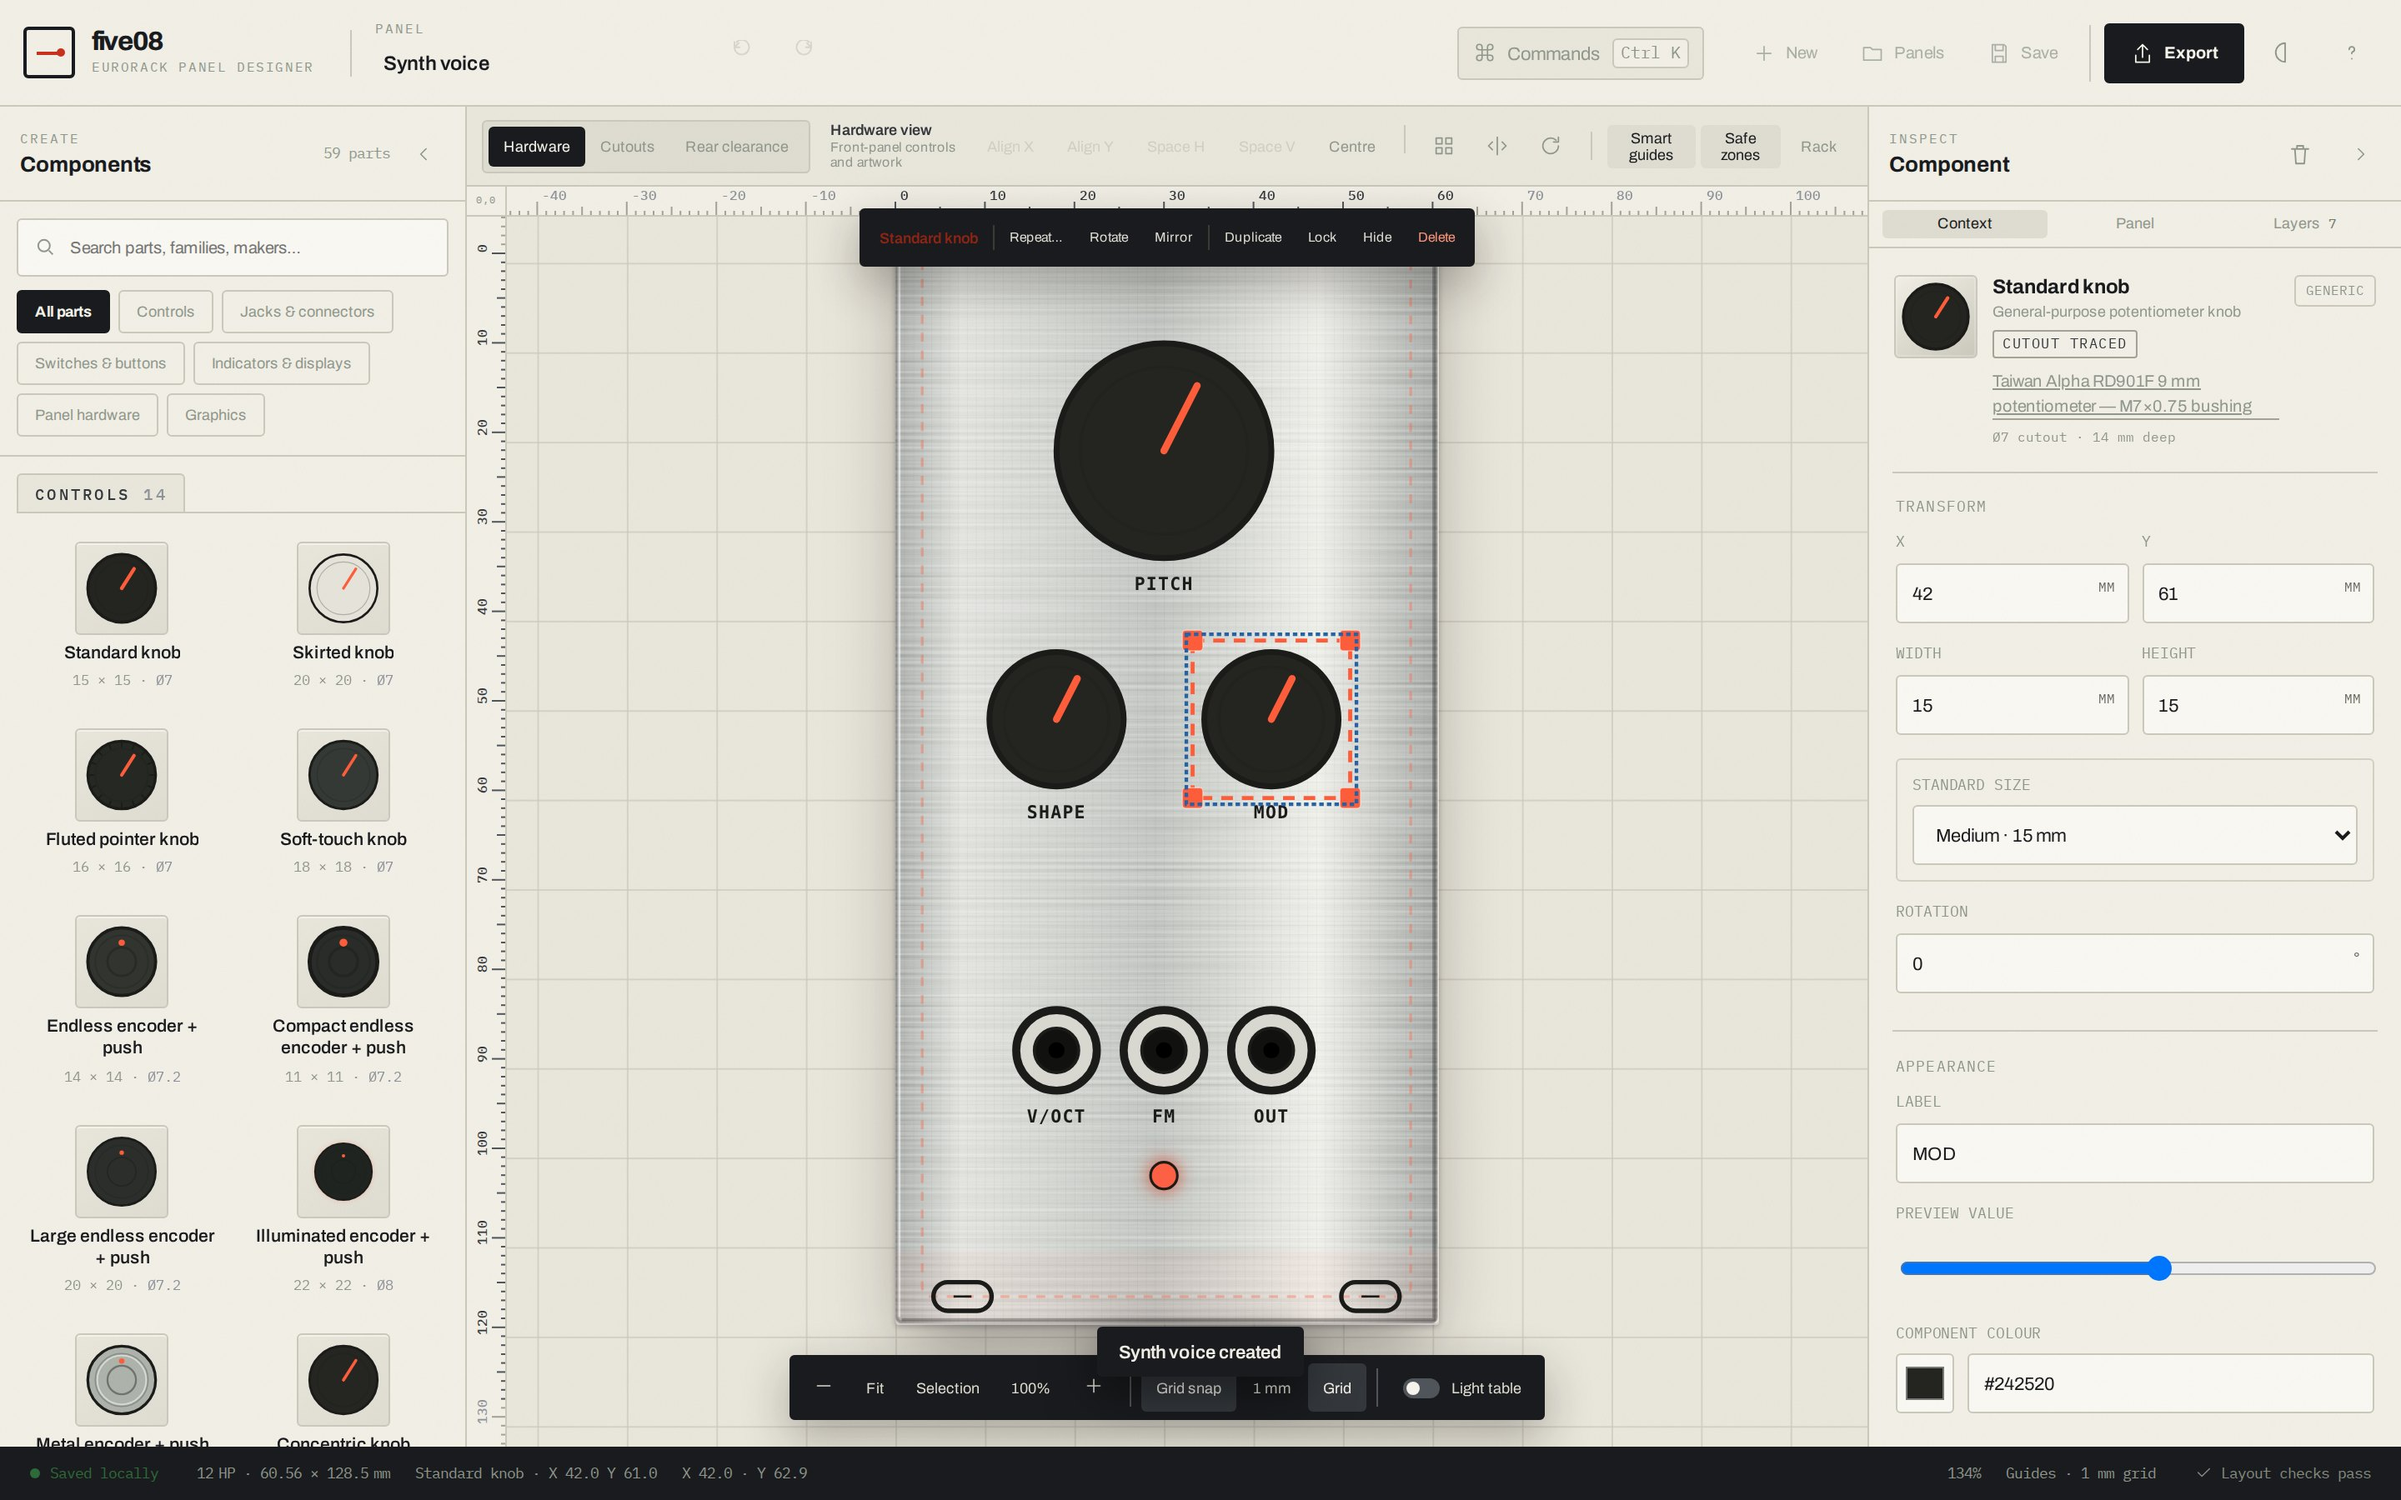
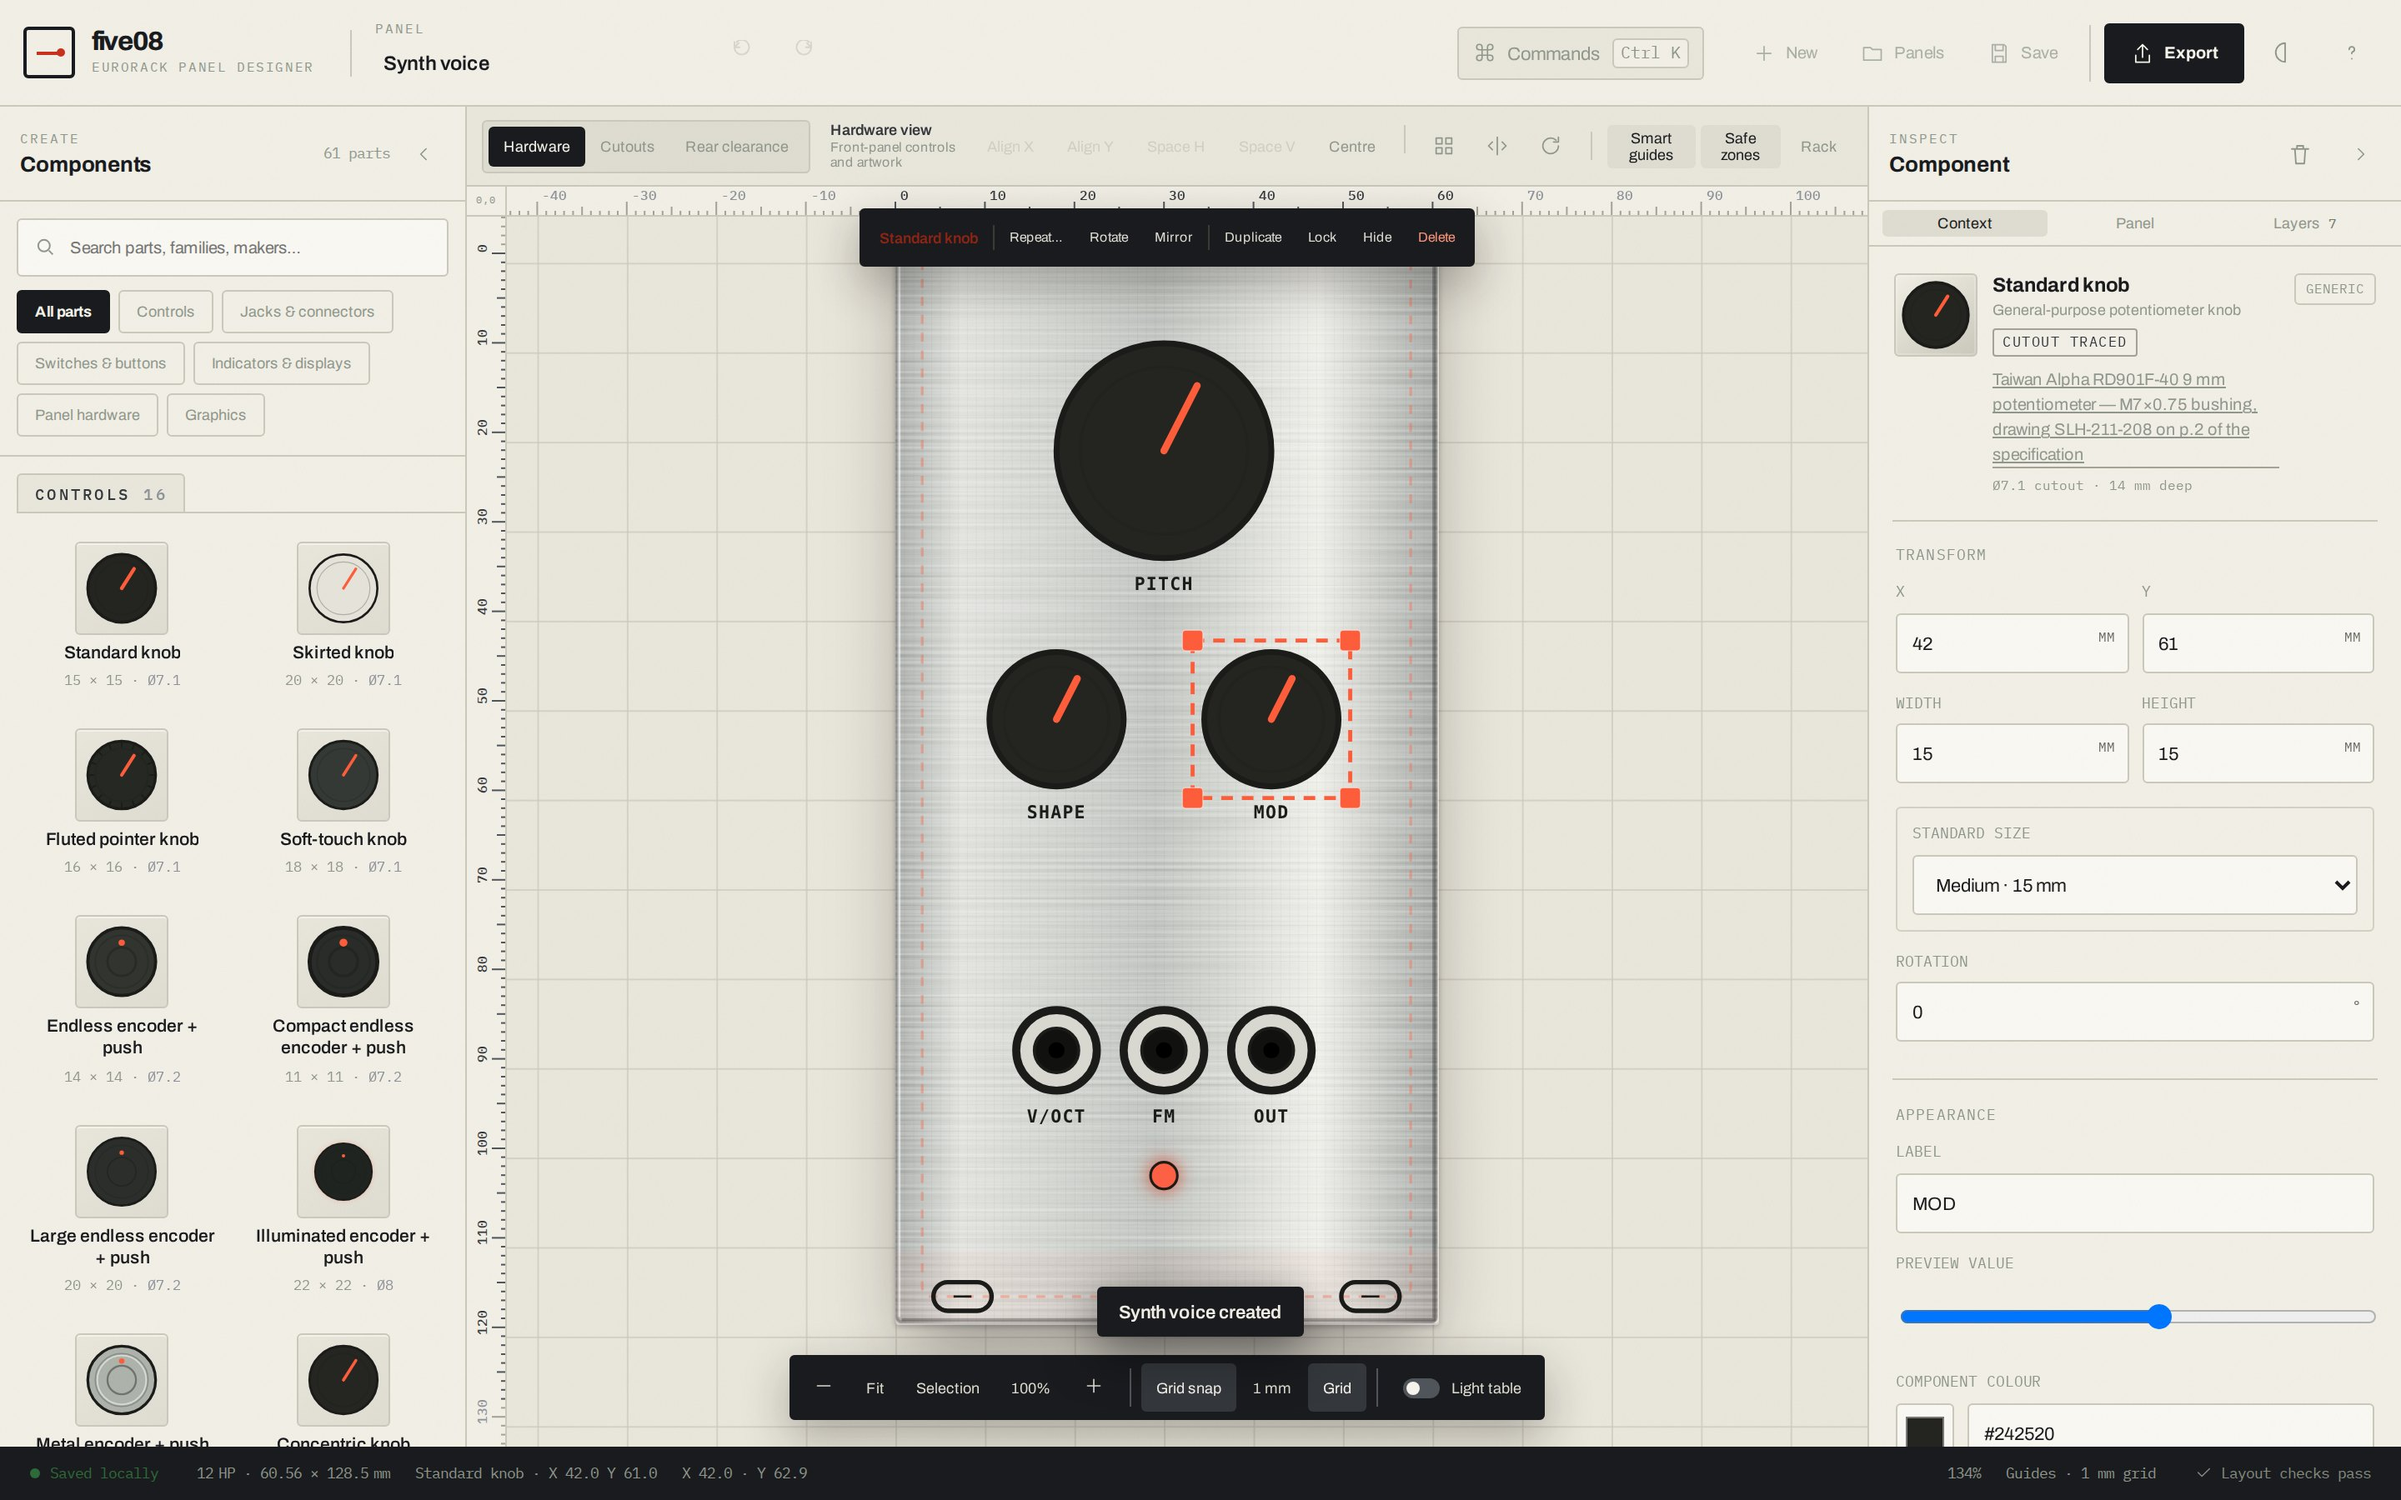
Keep the focus ring for the keyboard, and run the section rule unbroken
Clicking or dragging a part set focusedId, which is what Tab resumes from,
but it also drew the blue focus outline — and because the canvas rebuilds
on every edit, the ring was redrawn from that state even though nothing
was focused any more. So every move left an outline sitting on the panel.

The ring now follows :focus-visible rather than focus: it appears when the
keyboard put focus somewhere and disappears the moment a pointer takes
over. For anyone who wants it regardless, 'Focus ring' in the command
palette turns it on for good, remembered with the other preferences, and
the shortcuts dialog says so.

On the public page, the two column headings in section 1.0 each carried
their own underline, so the rule across the top of the section stopped
either side of the gutter and the spec table doubled the left half of it.
The left heading's rule now bridges the gutter and the table's own top
border is gone: one hairline, the width of the section.

Claude-Session: https://claude.ai/code/session_018GdknSXAat1Aoj3LkoWEQc

diff --git a/src/main.ts b/src/main.ts
@@ -25,6 +25,10 @@ let project=load(projectId), selection=new Set<string>();
 const history=new History(project);
 let gridIndex=grids.indexOf(prefs.grid)<0?1:grids.indexOf(prefs.grid);
 let snap=prefs.snap,smartGuides=prefs.smartGuides,showSafe=prefs.showSafe,showGrid=prefs.showGrid,theme:Theme=prefs.theme;
+/* The focus ring is a keyboard affordance. It follows :focus-visible rather
+   than focus — a part clicked or dragged with a pointer does not wear one —
+   unless someone turns it on for good. */
+let focusRing=prefs.focusRing,usingKeyboard=false;
 let showRack=false;
 let zoom=fitZoom(),view:'design'|'cutout'|'rear'='design',libraryQuery='',activeCategory='All',inspectorTab:'context'|'panel'|'layers'='context',leftOpen=true,rightOpen=true;
 let issues:Issue[]=[];
@@ -117,7 +121,7 @@ function setSaveStatus(state:'saving'|'saved'|'quota'|'unavailable'){
   // A green hairline that blinks once: the save landed, no toast required.
   if(state==='saved'&&wasSaving)pulse(el,'flash-ok');
 }
-function savePrefs(){writePrefs({theme,grid:grids[gridIndex],snap,smartGuides,showGrid,showSafe});}
+function savePrefs(){writePrefs({theme,grid:grids[gridIndex],snap,smartGuides,showGrid,showSafe,focusRing});}
 function saveRecovery(){pushRecovery(project);}
 function fitZoom(){
   const width=Math.max(320,window.innerWidth-(leftOpenAtBoot()?700:220));
@@ -428,11 +432,16 @@ function applyCanvasA11y(){
   drawFocusRing();
 }
 
-/** A focus ring distinct from the selection outline, so both can be seen at once. */
+/**
+ * A focus ring distinct from the selection outline, so both can be seen at
+ * once — but only for the people it is for. Clicking or dragging a part sets
+ * focusedId, which is what Tab resumes from; drawing a ring around it as well
+ * leaves a blue outline sitting on the panel after every move.
+ */
 function drawFocusRing(){
   const layer=document.querySelector('#focus-layer');
   if(!layer)return;
-  const item=project.items.find(i=>i.id===focusedId&&!i.hidden);
+  const item=focusRing||usingKeyboard?project.items.find(i=>i.id===focusedId&&!i.hidden):undefined;
   layer.innerHTML=item
     ?`<rect class="focus-ring ${item.id!==lastFocusId?'landing':''}" x="${item.x-item.width/2-2}" y="${item.y-item.height/2-2}" width="${item.width+4}" height="${item.height+4}"/>`
     :'';
@@ -938,6 +947,7 @@ function commands():Command[]{
     {id:'rack-toggle',group:'View',title:'Show the panel in a rack',keywords:'case neighbours rails context',run:()=>{showRack=!showRack;render();}},
     {id:'grid-size',group:'View',title:`Cycle the grid step (now ${grids[gridIndex]} mm)`,run:cycleGrid},
     {id:'theme',group:'View',title:`Theme: ${theme} — switch to ${nextTheme(theme)}`,keywords:'dark light appearance',run:()=>setTheme(nextTheme(theme))},
+    {id:'focus-ring',group:'View',title:`Focus ring: ${focusRing?'always shown':'only when tabbing'}`,detail:focusRing?'Outline every focused part, pointer or keyboard':'Outline a part only when the keyboard put focus on it',keywords:'outline blue accessibility a11y keyboard highlight',run:()=>{focusRing=!focusRing;savePrefs();notify(focusRing?'Focus ring always shown':'Focus ring only when tabbing');drawFocusRing();}},
 
     {id:'panel-tab',group:'Panel',title:'Panel settings',run:()=>{rightOpen=true;inspectorTab='panel';render();}},
     {id:'layers-tab',group:'Panel',title:'Object layers',run:()=>{rightOpen=true;inspectorTab='layers';render();}},
@@ -1075,6 +1085,7 @@ function helpDialog(){
     <div class="modal-head"><span class="eyebrow">Five08</span><h2 id="shortcuts-title">Shortcuts</h2><p>Drag a part onto the panel, or click a library row to drop it at the centre.</p></div>
     <div class="shortcut-grid">${SHORTCUTS.map(([title,rows])=>`<section><h3>${title}</h3>${rows.map(([label,keys])=>`<div><span>${label}</span><kbd>${keys}</kbd></div>`).join('')}</section>`).join('')}</div>
     <div class="guide-tip"><strong>Smart guides</strong><span>Blue lines align centres and edges while you drag. Red measurements show the gap to the nearest neighbour, and a matching “=” badge means two gaps are equal. Hold Alt to place a part anywhere, ignoring the grid.</span></div>
+    <div class="guide-tip"><strong>Focus ring</strong><span>Tab into the panel and the part you are on wears a blue outline. Clicking or dragging never draws one. To outline whatever is focused however you got there, search “focus ring” in the command palette.</span></div>
     <div class="guide-tip"><strong>Before you cut metal</strong><span>Preflight checks edge margins, cutout walls, mounting clashes, jack spacing and part depth. Generic component dimensions are starting points — check every one against the real datasheet.</span></div>
     <div class="modal-actions"><button class="tool-button primary" id="cancel-modal">Close</button></div>
   </div></div>`);
@@ -1259,6 +1270,10 @@ window.addEventListener('resize',()=>renderRuler(panelWidth(project.panel)));
 window.addEventListener('beforeunload',flush);
 
 const typing=(t:EventTarget|null)=>{const el=t as HTMLElement|null;return!!el&&(['INPUT','SELECT','TEXTAREA'].includes(el.tagName)||el.isContentEditable);};
+
+/* Which input put focus where, decided the way :focus-visible decides it. */
+window.addEventListener('keydown',()=>{usingKeyboard=true;},{capture:true});
+window.addEventListener('pointerdown',()=>{if(!usingKeyboard)return;usingKeyboard=false;drawFocusRing();},{capture:true});
 
 window.addEventListener('keyup',e=>{if(e.code==='Space'){spaceHeld=false;canvasEl().classList.remove('pannable');}});
 

diff --git a/src/landing.css b/src/landing.css
@@ -303,9 +303,16 @@ h1 { font-size: clamp(34px,4.4vw,58px); max-width: 14ch; line-height: 1.0; lette
 .rack figcaption span:last-child { max-width: var(--measure); }
 
 /* ---- split lists ---- */
-.split { display: grid; grid-template-columns: repeat(auto-fit,minmax(310px,1fr)); gap: 40px; }
-@media (min-width: 961px) { .split { grid-template-columns: minmax(0,1.25fr) minmax(0,1fr); } }
+.split { --split-gap: 40px; display: grid; grid-template-columns: minmax(0,1.25fr) minmax(0,1fr); column-gap: var(--split-gap); }
 .split h3 { font-size: 15px; padding-bottom: 9px; border-bottom: 1px solid var(--ink); }
+/* One rule under both headings. The left column's bridges the gutter so the
+   line runs the width of the section instead of stopping either side of it:
+   a sheet has rules across it, not a rule per column. */
+.split > div:first-child h3 { margin-right: calc(var(--split-gap) * -1); padding-right: var(--split-gap); }
+@media (max-width: 780px) {
+  .split { grid-template-columns: minmax(0,1fr); row-gap: 38px; }
+  .split > div:first-child h3 { margin-right: 0; padding-right: 0; }
+}
 .split ul { margin: 0; padding: 0; list-style: none; }
 .split li {
   position: relative; display: grid; grid-template-columns: 20px 1fr; gap: 8px;
@@ -330,7 +337,7 @@ h1 { font-size: clamp(34px,4.4vw,58px); max-width: 14ch; line-height: 1.0; lette
 .spec tbody tr:hover th, .spec tbody tr:hover .figure { color: var(--signal); }
 .spec .origin { font-family: var(--mono); font-size: 9.5px; letter-spacing: .08em; text-transform: uppercase; color: var(--faint); }
 /* The compact form: a label in small caps, a figure in mono, a note. */
-.spec.compact { font-size: 13px; border-top: 1px solid var(--ink); }
+.spec.compact { font-size: 13px; }
 .spec.compact tbody th { width: 22%; font-family: var(--sans); font-size: 11px; font-weight: 560; letter-spacing: .06em; text-transform: uppercase; color: var(--ink-2); }
 .spec.compact .figure { width: 24%; text-align: right; padding-right: 20px; color: var(--ink); font-size: 12px; }
 .spec.compact td:last-child { font-size: 12.5px; line-height: 1.5; }

diff --git a/e2e/editor.spec.ts b/e2e/editor.spec.ts
@@ -98,6 +98,40 @@ test.describe('editor',()=>{
     expect(errors).toEqual([]);
   });
 
+  test('the focus ring is for the keyboard, not the pointer',async({page})=>{
+    const errors=watchConsole(page);
+    await openTemplate(page,'voice');
+    const ring=page.locator('.focus-ring');
+
+    // Clicking and dragging a part must not leave an outline behind
+    const knob=page.locator('.panel-item').nth(2);
+    const box=(await knob.boundingBox())!;
+    await page.mouse.move(box.x+box.width/2,box.y+box.height/2);
+    await page.mouse.down();
+    await page.mouse.move(box.x+box.width/2+20,box.y+box.height/2+14,{steps:4});
+    await page.mouse.up();
+    await expect(ring).toHaveCount(0);
+
+    // Tabbing to a part still draws one
+    await page.keyboard.press('Escape');
+    await page.locator('#skip-canvas').focus();
+    await page.keyboard.press('Enter');
+    await expect(ring).toHaveCount(1);
+
+    // And it goes away again as soon as a pointer takes over
+    await page.locator('.panel-item').nth(4).click({force:true});
+    await expect(ring).toHaveCount(0);
+
+    // Turning the option on outlines whatever is focused, however you got there
+    await page.keyboard.press('Control+k');
+    await page.locator('#palette-input').fill('focus ring');
+    await page.keyboard.press('Enter');
+    await expect(page.locator('#toast')).toContainText('always shown');
+    await page.locator('.panel-item').nth(3).click({force:true});
+    await expect(ring).toHaveCount(1);
+    expect(errors).toEqual([]);
+  });
+
   test('every export produces a file',async({page})=>{
     const errors=watchConsole(page);
     await openTemplate(page,'mixer');

diff --git a/src/store.ts b/src/store.ts
@@ -90,8 +90,8 @@ export function pushRecovery(project:Project){
 export const listRecovery=()=>readJson<RecoverySnapshot[]>(RECOVERY_KEY,[]).filter(s=>s&&typeof s.savedAt==='string');
 export const clearRecovery=()=>{const s=store();try{s?.removeItem(RECOVERY_KEY);}catch{/* private mode */}};
 
-export type Prefs={theme:'system'|'light'|'dark';grid:number;snap:boolean;smartGuides:boolean;showGrid:boolean;showSafe:boolean};
-export const defaultPrefs:Prefs={theme:'system',grid:1,snap:true,smartGuides:true,showGrid:true,showSafe:true};
+export type Prefs={theme:'system'|'light'|'dark';grid:number;snap:boolean;smartGuides:boolean;showGrid:boolean;showSafe:boolean;focusRing:boolean};
+export const defaultPrefs:Prefs={theme:'system',grid:1,snap:true,smartGuides:true,showGrid:true,showSafe:true,focusRing:false};
 export const readPrefs=():Prefs=>({...defaultPrefs,...readJson<Partial<Prefs>>(PREFS_KEY,{})});
 export const writePrefs=(prefs:Prefs)=>{writeJson(PREFS_KEY,prefs);};
 

diff --git a/src/store.test.ts b/src/store.test.ts
@@ -112,7 +112,7 @@ describe('recovery snapshots',()=>{
 
 describe('preferences',()=>{
   it('round-trips and falls back to defaults for missing keys',()=>{
-    writePrefs({theme:'dark',grid:2.54,snap:false,smartGuides:true,showGrid:false,showSafe:true});
+    writePrefs({theme:'dark',grid:2.54,snap:false,smartGuides:true,showGrid:false,showSafe:true,focusRing:false});
     expect(readPrefs()).toMatchObject({theme:'dark',grid:2.54,snap:false});
     storage.setItem('five08:prefs',JSON.stringify({theme:'light'}));
     expect(readPrefs()).toMatchObject({theme:'light',grid:1,snap:true});
